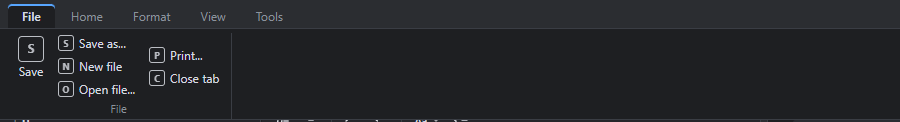
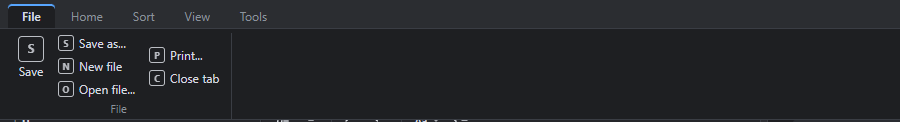
Plan 39: the tab Format is Sort; Go only Go to line and Go to definition; the mock redrawn (Home 1917 px)
Claude-Session: https://claude.ai/code/session_011ip4AMjLGVDRBeh8bEWE2k

Changed region(s): [[0.1244, 0.0984, 0.3111, 0.1721]]

diff --git a/docs/plans/39-PLAN-ribbon.md b/docs/plans/39-PLAN-ribbon.md
@@ -12,7 +12,7 @@ must be able to choose what is on it.
 
 ## 2. The solution, in brief
 
-An optional ribbon under the menu bar, with tabs (File, Home, Format, View, Tools); each tab holds named groups of
+An optional ribbon under the menu bar, with tabs (File, Home, Sort, View, Tools); each tab holds named groups of
 buttons, each button running an action as its menu item does, its tooltip showing the title and the key. A button is
 large (icon above its label, the ribbon's full height) or small (icon with its label beside it), and up to three
 small buttons stack in the height of one large one. A group may have a small icon in its corner that opens its
@@ -42,12 +42,12 @@ divider. "Corner": the action of the group's corner icon.
 | Clipboard | Paste (large; a number badge: the active clipboard) / Paste image + Cut + Copy. Corner: Manage clipboards |
 | Find | Find (large) / Find previous + Find next + Replace / Replace in files + Search in files + Find references |
 | Occurrences | Show all occurrences + Occurrences field + Clear occurrences / Occurrences bar (a toggle) |
-| Go | Position back + Position forward + Go to line / Go to definition |
+| Go | Go to line + Go to definition |
 | Select | Select all (large) / Select line + Select a block + Select inside brackets / divider / Column mode (large, a toggle) |
 | Bookmarks | Toggle unnumbered bookmark (large) / Previous bookmark + Next bookmark. Corner: Manage bookmarks |
 | Highlights | Highlight + Highlight note + Remove highlight. Corner: Highlights window |
 
-**Format**
+**Sort**
 
 | Group | Columns |
 |---|---|
@@ -74,12 +74,12 @@ divider. "Corner": the action of the group's corner icon.
 - **Actions**: all exist now (actions.js), except **Sort again**: a new action, the last sort again with its keys
   and options (from the Sort panel or a stored sort), on the selection or the file as Sort.
 - **Highlight** is not a toggle: it highlights the selection, or removes the highlight the cursor is in.
-- **Position back / forward**: the cursor's jumps in the document (places.js); Back / Forward in the window (the
-  tabs and files, as a browser) are in the menus and keys, not on the ribbon.
+- **Position back / forward** (the cursor's jumps in the document) and **Back / Forward in the window** (the tabs
+  and files, as a browser) are not on the ribbon: in the menus and on their keys and mouse buttons.
 - **Day / Night**: the two values of Day / night, each its own button, the current one pressed.
 - **Width**, measured in a mock (a test copy, LexPen's own font and the Dark theme, group names on, a 1264 px wide
-  window): File 233 px, Home 2038 px, Format 257 px, View 712 px, Tools 779 px. Home's groups: Edit 422, Clipboard
-  152, Find 273, Occurrences 277, Go 251, Select 283, Bookmarks 236, Highlights 139; the ribbon 120 px high with its
+  window): File 233 px, Home 1917 px, Sort 257 px, View 712 px, Tools 779 px. Home's groups: Edit 422, Clipboard
+  152, Find 273, Occurrences 277, Go 129, Select 283, Bookmarks 236, Highlights 139; the ribbon 120 px high with its
   tabs. Home does not fit that window (question 1).
 
 The mock, per tab (the icons are placeholders: a box with the label's first letter; the corner icon at the bottom
@@ -89,7 +89,7 @@ right of Clipboard, Bookmarks, Highlights and Sort):
 
 ![ribbon-Home](39-PLAN-ribbon.md.images/ribbon-Home.png)
 
-![ribbon-Format](39-PLAN-ribbon.md.images/ribbon-Format.png)
+![ribbon-Sort](39-PLAN-ribbon.md.images/ribbon-Sort.png)
 
 ![ribbon-View](39-PLAN-ribbon.md.images/ribbon-View.png)
 
@@ -171,7 +171,7 @@ right of Clipboard, Bookmarks, Highlights and Sort):
 
 ## 4. Open questions
 
-1. Home is wider than a 1264 px window (2038 px in the mock): split it into two tabs (for instance Home: Edit,
+1. Home is wider than a 1264 px window (1917 px in the mock): split it into two tabs (for instance Home: Edit,
    Clipboard, Find, Occurrences; and Navigate: Go, Select, Bookmarks, Highlights), make more of its large buttons small (Select
    all, Toggle bookmark), or keep it and let the right end go into the ">>" menu?
-2. History (Undo, Redo) on Format, as now, or on Home, where the actions used most are?
+2. History (Undo, Redo) on Sort, as now, or on Home, where the actions used most are?
